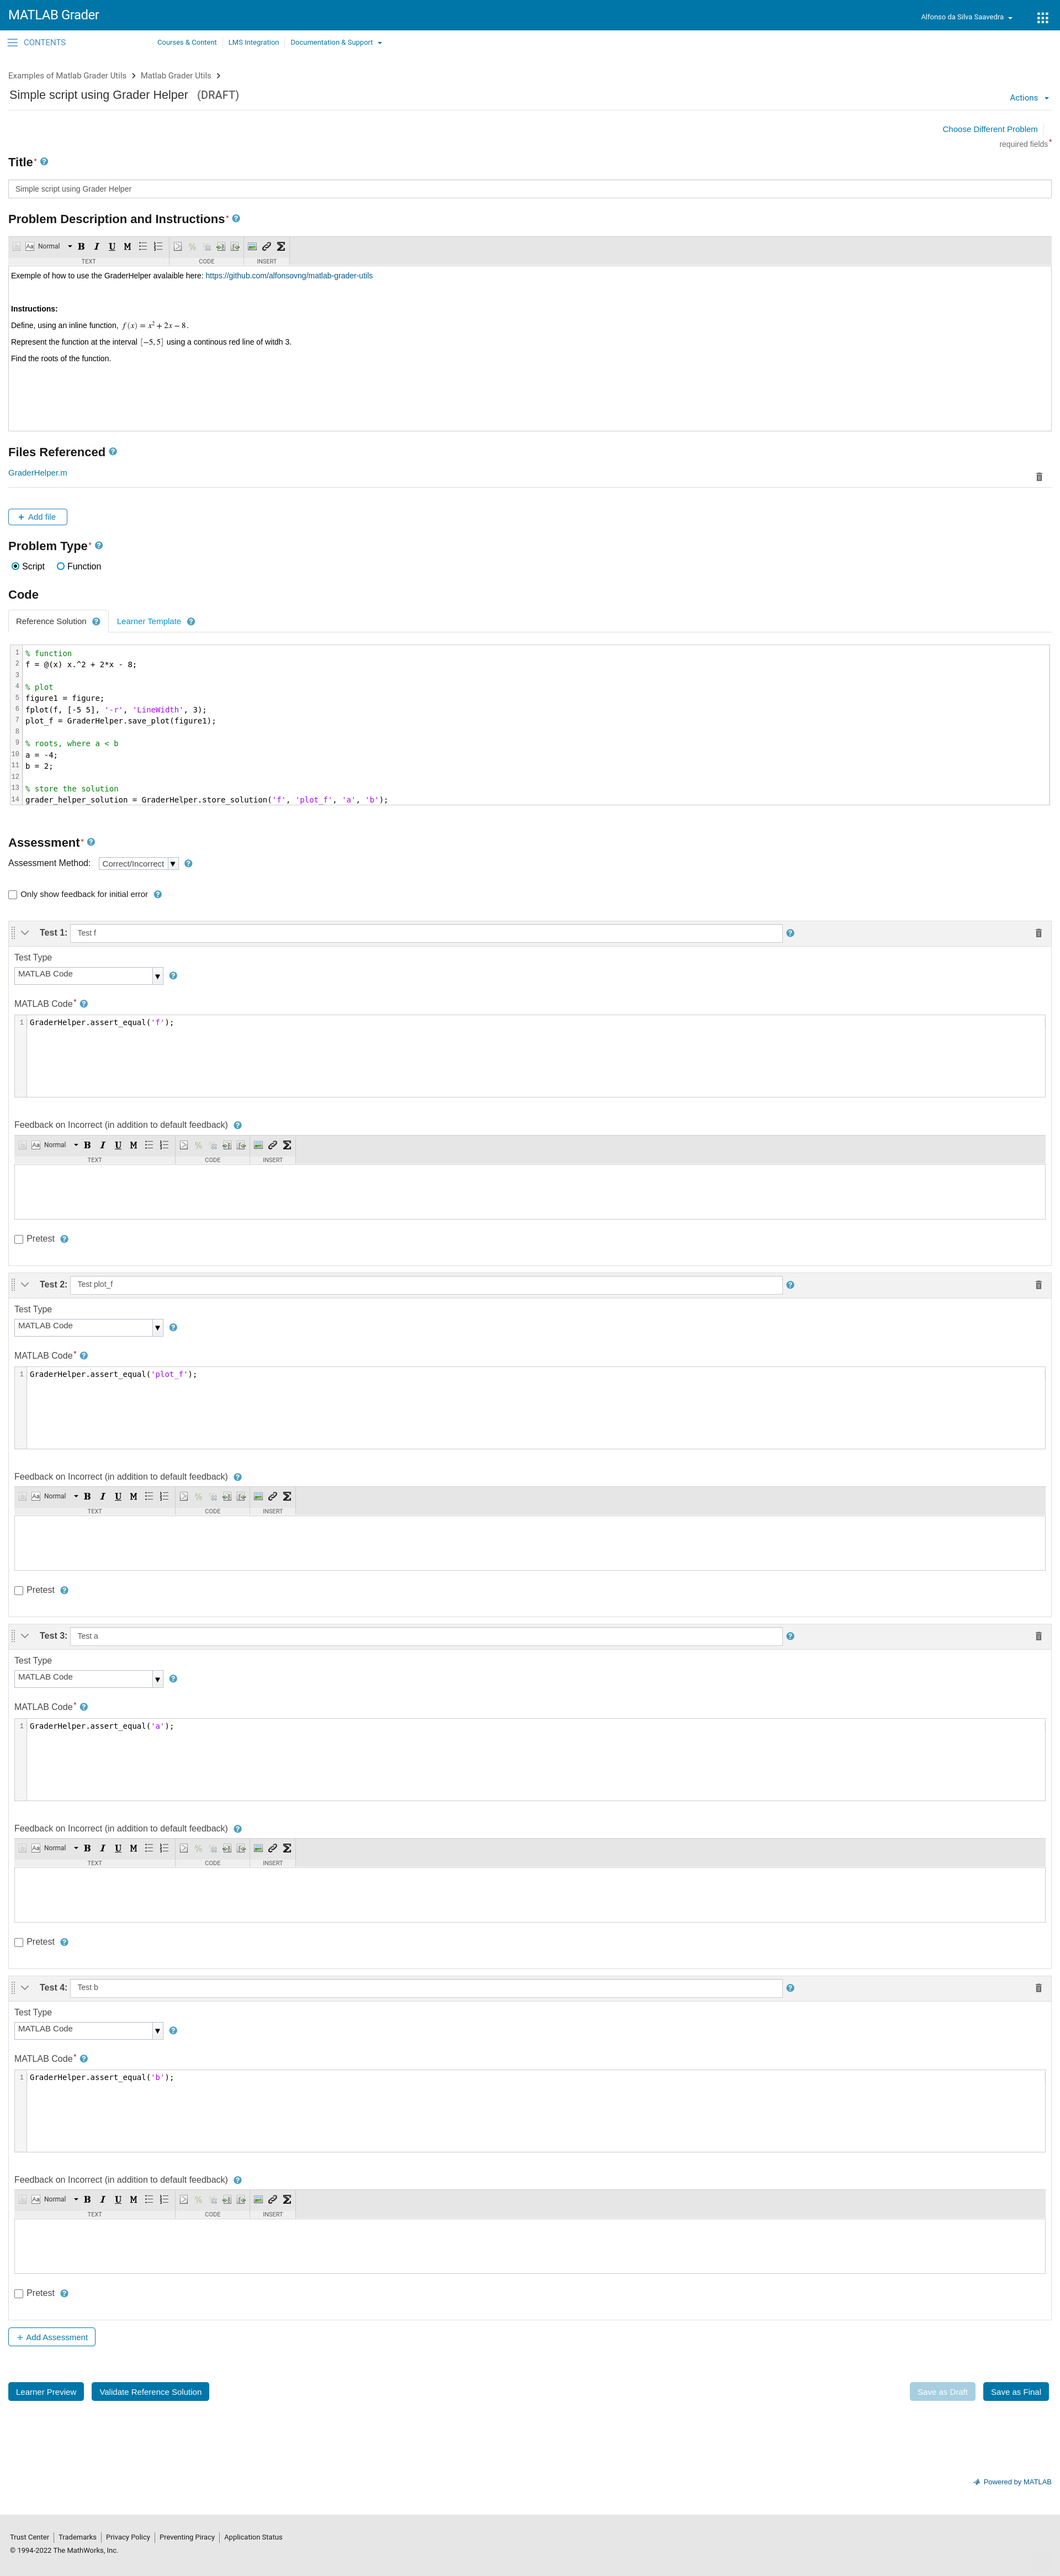
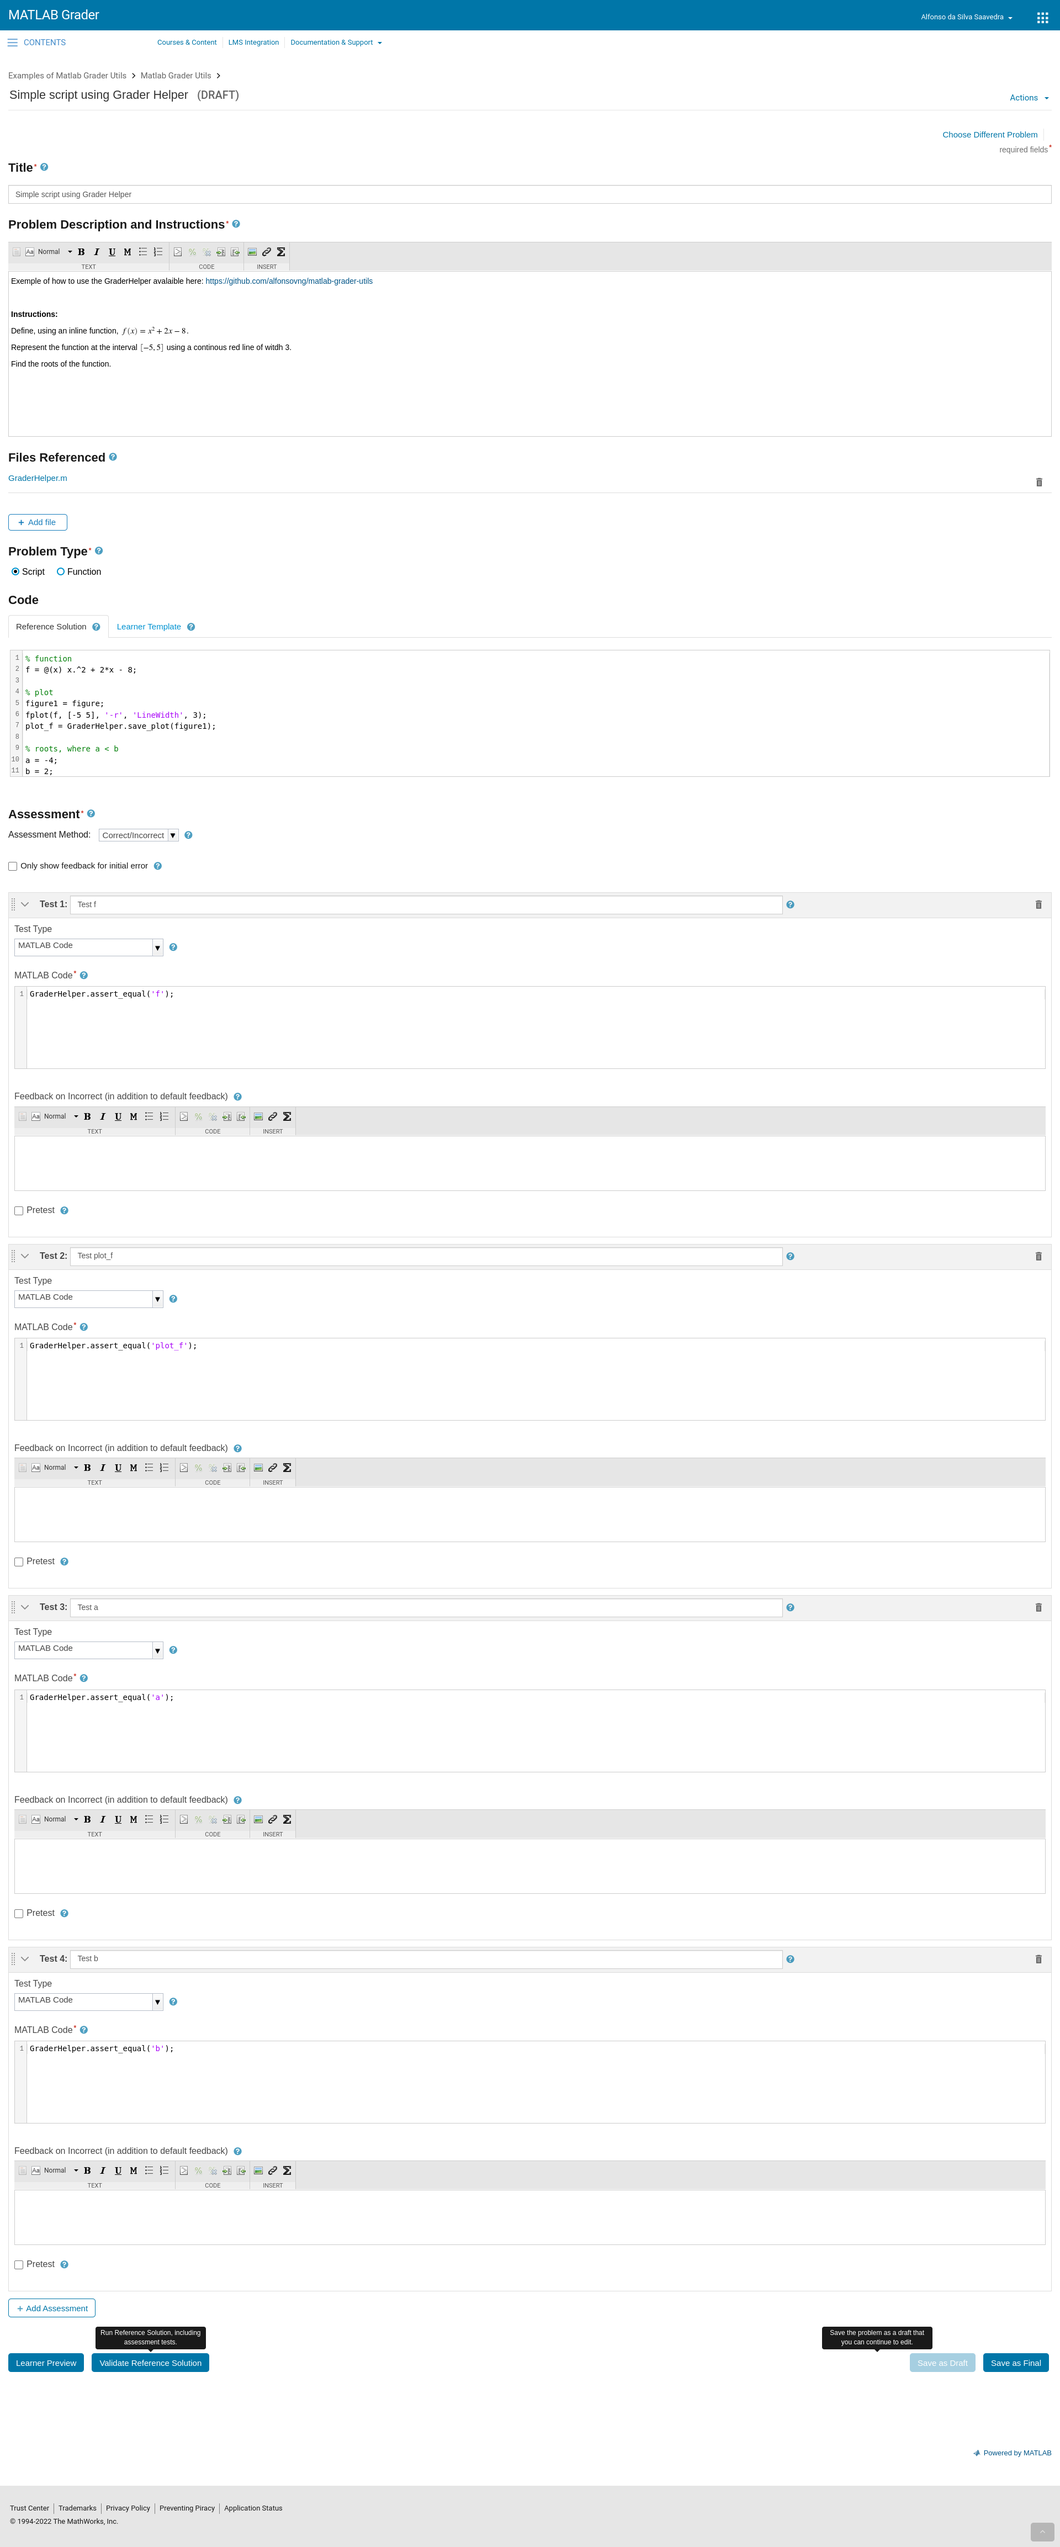
Simplify code removing unnecessary file generation

diff --git a/code/grader-helper/test/test.m b/code/grader-helper/test/test.m
@@ -2,31 +2,66 @@ current_path = pwd;
 addpath(genpath(current_path + "/.."));
 addpath(genpath(current_path + "/../MATLABGraderTestPackage"));
 
-reference_solution = reference();
-learner_solution = reference();
+%
+% Reference variables to test
+%
+
+% function
+referenceVariables.f = @(x) x.^2 + 5*x + 2; 
+% plot
+figure1 = figure;
+fplot(referenceVariables.f, [0 10], '-r', 'LineWidth', 3);
+referenceVariables.plot_f = GraderHelper.save_plot(figure1, true); 
+% text
+referenceVariables.name = 'Alfonso';
+% numbers
+referenceVariables.a = 10;
+referenceVariables.b = 5e-10;
+referenceVariables.c = -0.00000012;
+referenceVariables.d = exp(-sin(pi/4));
+% intervals
+referenceVariables.i = [-10 200];
+
+%
+% TESTS
+%
 
 % ok
+f = @(x) x.^2 + 5*x + 2; 
 check_ok('f');
 check_ok('f', 'Interval', [0 5]);
+
+figure1 = figure;
+fplot(f, [0 10], '-r', 'LineWidth', 3);
+plot_f = GraderHelper.save_plot(figure1, true); 
 check_ok('plot_f');
+
+name = 'Alfonso';
 check_ok('name');
+
+a = 10;
 check_ok('a');
+
+b = 5e-10;
 check_ok('b');
+
+c = -0.00000012;
 check_ok('c');
+
+d = exp(-sin(pi/4));
 check_ok('d');
+
+i = [-10 200];
 check_ok('i');
 
 % function ok
 % f = @(x) x.^2 + 5*x + 2; 
 f = @(x) x.*x + 6*x - x + 1 + 1; 
-learner_solution = GraderHelper.store_solution('f');
 check_ok('f');
-
 
 % function error
 % f = @(x) x.^2 + 5*x + 2; 
 f = @(x) x.^2 + 5*x + 3; 
-learner_solution = GraderHelper.store_solution('f');
 check_error('wrong definition', 'f');
 
 % % plot error by points
@@ -35,7 +70,6 @@ check_error('wrong definition', 'f');
 % figure1 = figure;
 % fplot(f, [0 10], '-r', 'LineWidth', 3);
 % plot_f = GraderHelper.save_plot(figure1, true); 
-% learner_solution = GraderHelper.store_solution('plot_f');
 % check_error('points', 'plot_f');
 
 % plot error by color
@@ -43,7 +77,6 @@ f = @(x) x.^2 + 5*x + 2;
 figure1 = figure;
 fplot(f, [0 10], '-b', 'LineWidth', 3);
 plot_f = GraderHelper.save_plot(figure1, true); 
-learner_solution = GraderHelper.store_solution('plot_f');
 check_error('color', 'plot_f');
 
 % plot error by line
@@ -51,7 +84,6 @@ f = @(x) x.^2 + 5*x + 2;
 figure1 = figure;
 fplot(f, [0 10], '.r', 'LineWidth', 3);
 plot_f = GraderHelper.save_plot(figure1, true); 
-learner_solution = GraderHelper.store_solution('plot_f');
 check_error('line style', 'plot_f');
 
 % plot error by range
@@ -59,48 +91,45 @@ f = @(x) x.^2 + 5*x + 2;
 figure1 = figure;
 fplot(f, [0 11], '-r', 'LineWidth', 3);
 plot_f = GraderHelper.save_plot(figure1, true); 
-learner_solution = GraderHelper.store_solution('plot_f');
 check_error('range', 'plot_f');
 
 % plot error by line width
 f = @(x) x.^2 + 5*x + 2; 
 figure1 = figure;
 fplot(f, [0 10], '-r', 'LineWidth', 2);
-learner_solution = GraderHelper.store_solution('plot_f');
 check_error('line width', 'plot_f');
 
 % text error
 % name = 'Alfonso';
 name = 'Alfons0';
-learner_solution = GraderHelper.store_solution('name');
 check_error('wrong value', 'name');
 
 % number error
 % a = 10
 a = 11;
-learner_solution = GraderHelper.store_solution('a');
 check_error('wrong value', 'a');
 
 % number error with absolute tolerance
 % a = 10
 a = 10.00001;
-learner_solution = GraderHelper.store_solution('a');
 check_ok('a');
 check_error('wrong value', 'a', 'AbsoluteTolerance', 1e-6);
 
 % number error with relative tolerance
 % c = -0.00000012;
 c = -0.00000013;
-learner_solution = GraderHelper.store_solution('c');
 check_ok('c');
 check_error('wrong value', 'c', 'RelativeTolerance', 1e-2);
 
+% interval error
+i = [-10 201];
+check_error('wrong value', 'i');
 
 function check_ok(variable_name, varargin)
 
     % the assert_equal will try to find these vars
-    grader_helper_solution = evalin('caller', 'learner_solution');
-    referenceVariables.grader_helper_solution = evalin('caller', 'reference_solution');
+    assignhere(variable_name, evalin('caller', variable_name));
+    referenceVariables.(variable_name) = evalin('caller', sprintf('referenceVariables.%s', variable_name));
 
     try
         GraderHelper.assert_equal(variable_name, varargin{:});
@@ -114,8 +143,8 @@ end
 function check_error(why, variable_name, varargin)
 
     % the assert_equal will try to find these vars
-    grader_helper_solution = evalin('caller', 'learner_solution');
-    referenceVariables.grader_helper_solution = evalin('caller', 'reference_solution');
+    assignhere(variable_name, evalin('caller', variable_name));
+    referenceVariables.(variable_name) = evalin('caller', sprintf('referenceVariables.%s', variable_name));
 
     try
         GraderHelper.assert_equal(variable_name, varargin{:});
@@ -126,4 +155,9 @@ function check_error(why, variable_name, varargin)
     end
     fprintf('\n\tassert_equal(%s) did not fail because of %s and it is wrong!\n', variable_name, why);
     error('Expected error checking %s because of %s, but it dit not happen\n', variable_name, why);
+end
+
+% https://stackoverflow.com/a/51245813
+function assignhere(varname,varvalue)
+    assignin('caller',varname,varvalue);
 end

diff --git a/code/grader-helper/GraderHelper.m b/code/grader-helper/GraderHelper.m
@@ -3,8 +3,6 @@ classdef GraderHelper
         SHOW_LOG = false;     
         FUNCTION_NUMBER_POINTS_TO_CHECK = 13;
         FUNCTION_DEFAULT_INTERVAL = [-10 10];
-
-        SOLUTION_FILE_VARIABLE_NAME = 'grader_helper_solution';
     end
 
     methods(Static)
@@ -26,37 +24,13 @@ classdef GraderHelper
             end        
         end
 
-        function file_name = store_solution(varargin)
-            % unique file with .mat extension
-            file_name = [tempname('.') '.mat'];
-
-            GraderHelper.log('Store solution at %s', file_name);
-
-            for n = 1:nargin
-                variable_name = varargin{n};
-                variable_value = evalin('caller', varargin{n});
-                GraderHelper.assignhere(variable_name, variable_value);
-            end
-
-            save(file_name, varargin{:});
-        end
-
         function assert_equal(variable_name, varargin)
             % get the name of the files with the learner and reference solution
             try
-                learner_solution = evalin('caller', GraderHelper.SOLUTION_FILE_VARIABLE_NAME);
-                reference_solution = evalin('caller', sprintf('referenceVariables.%s', GraderHelper.SOLUTION_FILE_VARIABLE_NAME));
+                learner_value = evalin('caller', variable_name);
+                reference_value = evalin('caller', sprintf('referenceVariables.%s', variable_name));
             catch exception
                 GraderHelper.log(getReport(exception));
-
-                error('Files with variable %s not found. Script with syntax errors that could not be executed', variable_name);
-            end
-
-            try
-                learner_value = load(learner_solution, variable_name).(variable_name);
-                reference_value = load(reference_solution, variable_name).(variable_name);
-            catch exception
-                GraderHelper.log(getReport(exception));       
 
                 error('Variable %s not found. Script with syntax errors that could not be executed', variable_name);
             end

diff --git a/examples/simple-script-grader-helper/learner.m b/examples/simple-script-grader-helper/learner.m
@@ -9,6 +9,3 @@ plot_f = GraderHelper.save_plot(figure1);
 % roots, where a < b
 a = NaN;
 b = NaN;
-
-% store the solution
-grader_helper_solution = GraderHelper.store_solution('f', 'plot_f', 'a', 'b');

diff --git a/examples/simple-script-grader-helper/reference.m b/examples/simple-script-grader-helper/reference.m
@@ -9,6 +9,3 @@ plot_f = GraderHelper.save_plot(figure1);
 % roots, where a < b
 a = -4;
 b = 2;
-
-% store the solution
-grader_helper_solution = GraderHelper.store_solution('f', 'plot_f', 'a', 'b');

diff --git a/code/grader-helper/README.md b/code/grader-helper/README.md
@@ -16,9 +16,6 @@ plot_f = GraderHelper.save_plot(figure1);
 % roots, where a < b
 a = -4;
 b = 2;
-
-% store the solution
-grader_helper_solution = GraderHelper.store_solution('f', 'plot_f', 'a', 'b');
 ```
 
 ## Learner Template:
@@ -35,9 +32,6 @@ plot_f = GraderHelper.save_plot(figure1);
 % roots, where a < b
 a = NaN;
 b = NaN;
-
-% store the solution
-grader_helper_solution = GraderHelper.store_solution('f', 'plot_f', 'a', 'b');
 ```
 
 ## Assessments:

diff --git a/examples/simple-script-grader-helper/README.md b/examples/simple-script-grader-helper/README.md
@@ -6,7 +6,7 @@ Add to the problem the following file:
 
 * [GraderHelper.m](../../code/grader-helper/GraderHelper.m)
 
-Take a look to the screesnshots:
+Take a look to the screenshots:
 
 * [Screenshot of the problem draft](./screenshot_reference.png)
 * [Screenshot of the learner preview](./screenshot_learner.png)
